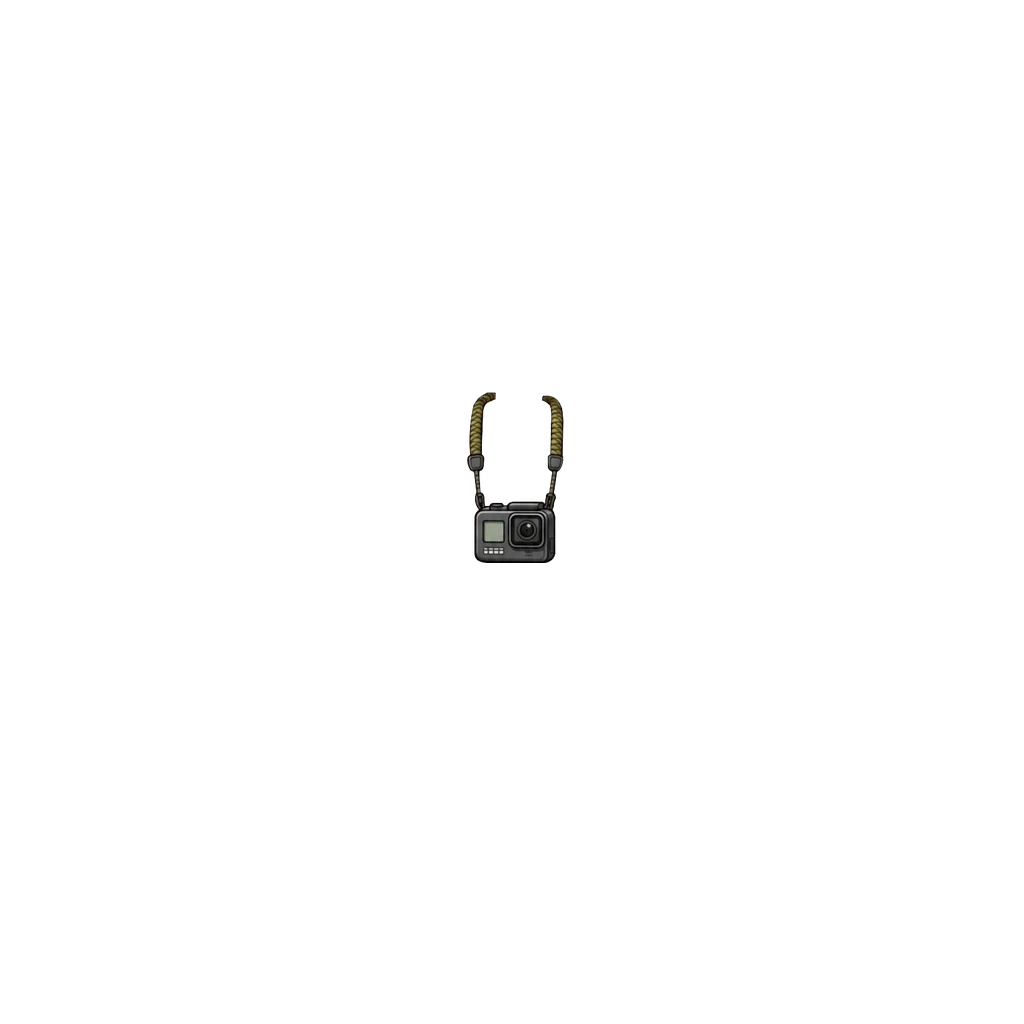
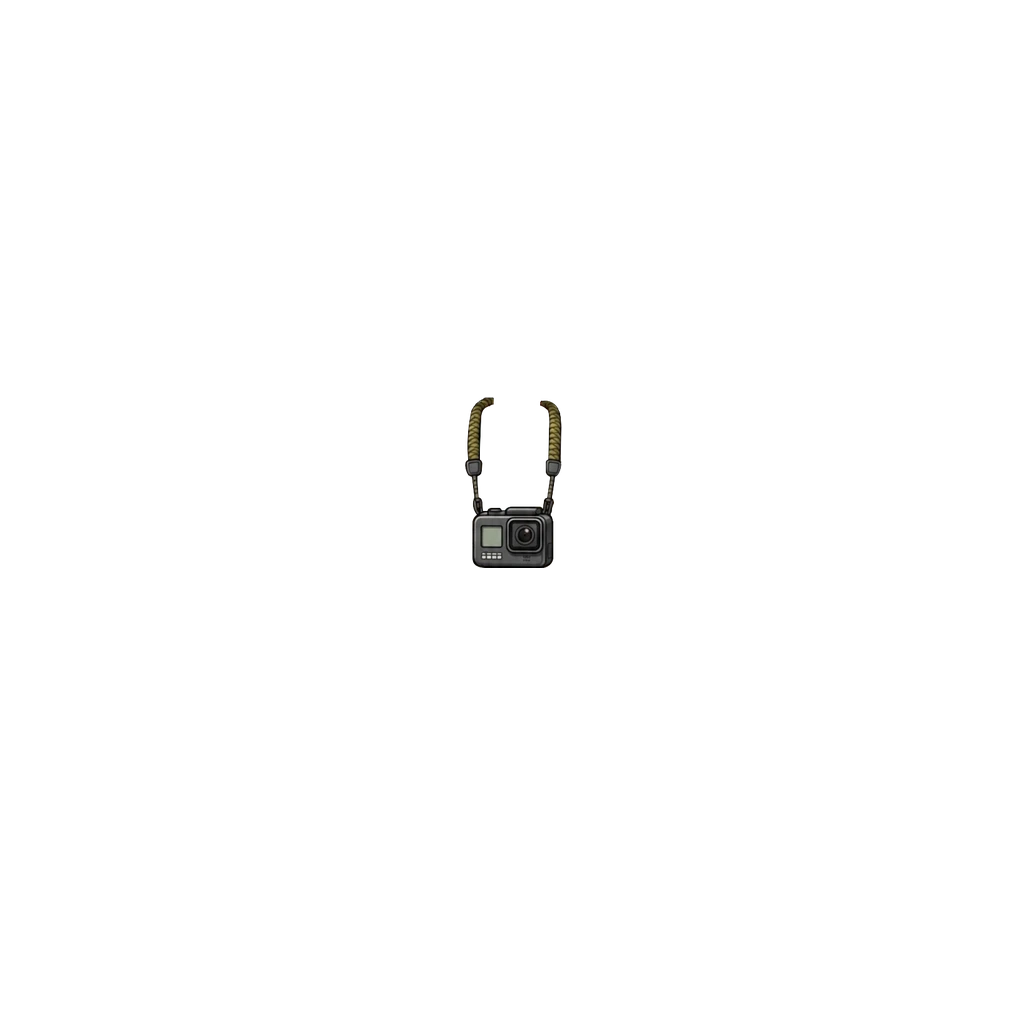
탐험 카메라: 남아만 아래로 5·왼쪽 2 (#901)
남아 그림 위끝 y392→y397, 왼쪽 2. img ?v=2(여아 그대로).

Claude-Session: https://claude.ai/code/session_018maNuYqDfFyRSe9uKpZhPR

Changed region(s): [[0.4375, 0.375, 0.5625, 0.5625], [0.4688, 0.375, 0.5, 0.4062]]

diff --git a/src/data/avatarEquipment.js b/src/data/avatarEquipment.js
@@ -437,8 +437,9 @@ export const AVATAR_CATALOG = [
      탐험 카메라 [2026-10-04] — 남녀 공용 첫 목 장식. 검은 액션 카메라 + 카키 끈(사용자 원화 156×276).
      배율 0.62, 끈 가운데를 목 가운데에 두고 끈 위끝을 목이 어깨와 만나는 높이에 맞췄다 —
      남아는 목이 낮아(y≈400) 위끝 y392, 여아는 목이 높아(y≈365) 위끝 y356 이라 그림을 성별마다 따로 둔다(imgGirl).
-     남아 상자 (467,392,564,563) · 여아 상자 (465,356,562,527). 목 장식 z40 이라 옷 위로 보인다. */
-  { id: "neck_camera",    slot: "neck",  label: "탐험 카메라", emoji: "📷", price:DECOR_PRICE.rare, rarity: "rare", theme: "adventure", img: "assets/avatar/neck/action-camera-boy.webp", imgGirl: "assets/avatar/neck/action-camera-girl.webp", thumb: "assets/avatar/thumb/neck_camera.webp" },
+     남아 상자 (467,392,564,563) · 여아 상자 (465,356,562,527). 목 장식 z40 이라 옷 위로 보인다.
+     [2026-10-05] 사용자 조정 — 남아만 아래로 5·왼쪽으로 2(위끝 y397). 남아 상자 (465,397,562,568). img ?v=2. */
+  { id: "neck_camera",    slot: "neck",  label: "탐험 카메라", emoji: "📷", price:DECOR_PRICE.rare, rarity: "rare", theme: "adventure", img: "assets/avatar/neck/action-camera-boy.webp?v=2", imgGirl: "assets/avatar/neck/action-camera-girl.webp", thumb: "assets/avatar/thumb/neck_camera.webp" },
   /* ── 우주 세트 (남아) — 사용자 원화 2026-09-29 ────────────────────────────
      우주복(top_space)과 같은 원화 세트에서 나온 가방·신발. 둘 다 남아 전용 첫
      세트 아이템이고(back·shoes 슬롯에 살아 있는 아이템이 이제껏 하나도 없었다),

diff --git a/art-src/README.md b/art-src/README.md
@@ -618,4 +618,4 @@ bbox로 여백만 잘라내고 배포본은 높이 480px로 축소했다(전부 
 | thumb-src-hat_post_girl.webp | **상점 목록 그림 여아 우편부 모자 (hat_post_girl, 사용자 원화 2026-10-04)** — 상점 카드에만 보이는 모자 아이콘(쓰는 그림과 별개). 481×292 투명 배경, 세로 160px 로 줄여 탑재(thumb ?v=2) | avatar/thumb/hat_post_girl.webp |
 | thumb-src-hat_wizard_girl.webp | **상점 목록 그림 여아 마법사 모자 (hat_wizard_girl, 사용자 원화 2026-10-04)** — 상점 카드에만 보이는 모자 아이콘(쓰는 그림과 별개). 490×388 투명 배경, 세로 160px 로 줄여 탑재(thumb ?v=2) | avatar/thumb/hat_wizard_girl.webp |
 | thumb-src-hat_helmet_girl.webp | **상점 목록 그림 여아 우주 헬멧 (hat_helmet_girl, 사용자 원화 2026-10-04)** — 상점 카드에만 보이는 모자 아이콘(쓰는 그림과 별개). 518×415 투명 배경, 세로 160px 로 줄여 탑재(thumb ?v=2) | avatar/thumb/hat_helmet_girl.webp |
-| action-camera-src.webp | **탐험 카메라 원화 남녀 공용 (사용자 원화 2026-10-04)** — 156×276 투명 배경, 검은 액션 카메라 + 카키 끈. 첫 목 장식. 배율 0.62, 끈 가운데를 목 가운데에, 끈 위끝을 목·어깨 만나는 높이(남아 y392·여아 y356)에 맞춰 성별마다 따로 탑재. 남아 상자 (467,392,564,563) · 여아 상자 (465,356,562,527). 상점 그림은 원화를 세로 160px 로 | avatar/neck/action-camera-boy.webp · action-camera-girl.webp · thumb/neck_camera.webp |
+| action-camera-src.webp | **탐험 카메라 원화 남녀 공용 (사용자 원화 2026-10-04)** — 156×276 투명 배경, 검은 액션 카메라 + 카키 끈. 첫 목 장식. 배율 0.62, 끈 가운데를 목 가운데에, 끈 위끝을 목·어깨 만나는 높이(남아 y392·여아 y356)에 맞춰 성별마다 따로 탑재. 남아 상자 (467,392,564,563) · 여아 상자 (465,356,562,527). **[2026-10-05 조정]** 남아만 아래로 5·왼쪽 2, 남아 상자 (465,397,562,568) · img ?v=2. 상점 그림은 원화를 세로 160px 로 | avatar/neck/action-camera-boy.webp · action-camera-girl.webp · thumb/neck_camera.webp |
